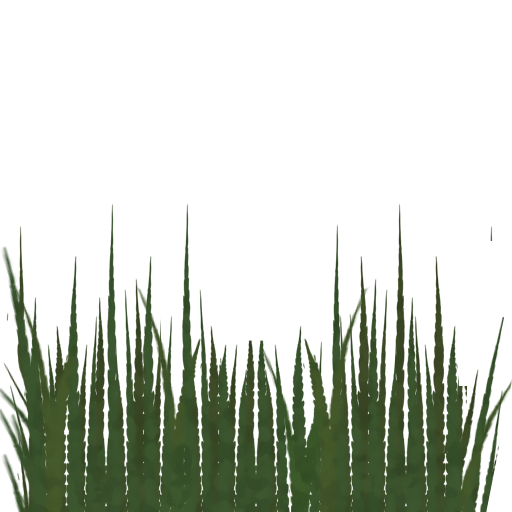
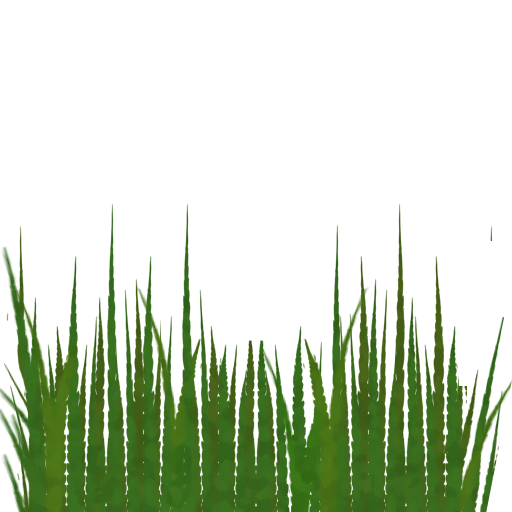
Fix to grass and waterplanes

Changed region(s): [[0.0, 0.5625, 0.9688, 1.0], [0.8438, 0.5938, 0.875, 0.625], [0.3438, 0.5312, 0.375, 0.5625]]

diff --git a/ModelViewer/Source/TestRealisticScene.h b/ModelViewer/Source/TestRealisticScene.h
@@ -291,6 +291,8 @@ bool TestRealisticScene::RunTest(float diff)
 			{
 				
 			}
+			GetGraphics()->ReloadShaders(11);
+			GetGraphics()->ReloadShaders(27);
 			GetGraphics()->ReloadShaders(16);
 			//GetGraphics()->ReloadShaders(19);
 			//MaloW::Debug("Diff: " + MaloW::convertNrToString(totDiff / nrofdiffs));

diff --git a/NDYGFX/Source/DxManagerEventHandling.cpp b/NDYGFX/Source/DxManagerEventHandling.cpp
@@ -336,6 +336,9 @@ void DxManager::HandleReloadShaders(int shader)
 		if(this->Shader_FogEnclosement)	
 			this->Shader_FogEnclosement->Reload();
 		break;
+	case 27:
+		if(this->Shader_BillboardInstanced)
+			this->Shader_BillboardInstanced->Reload();
 	}
 }
 

diff --git a/ModelViewer/Source/ModelViewer.cpp b/ModelViewer/Source/ModelViewer.cpp
@@ -1,5 +1,5 @@
-#define TEST
-//#define REALISTICTESTSCENE
+//#define TEST
+#define REALISTICTESTSCENE
 
 
 #if defined(DEBUG) || defined(_DEBUG)
